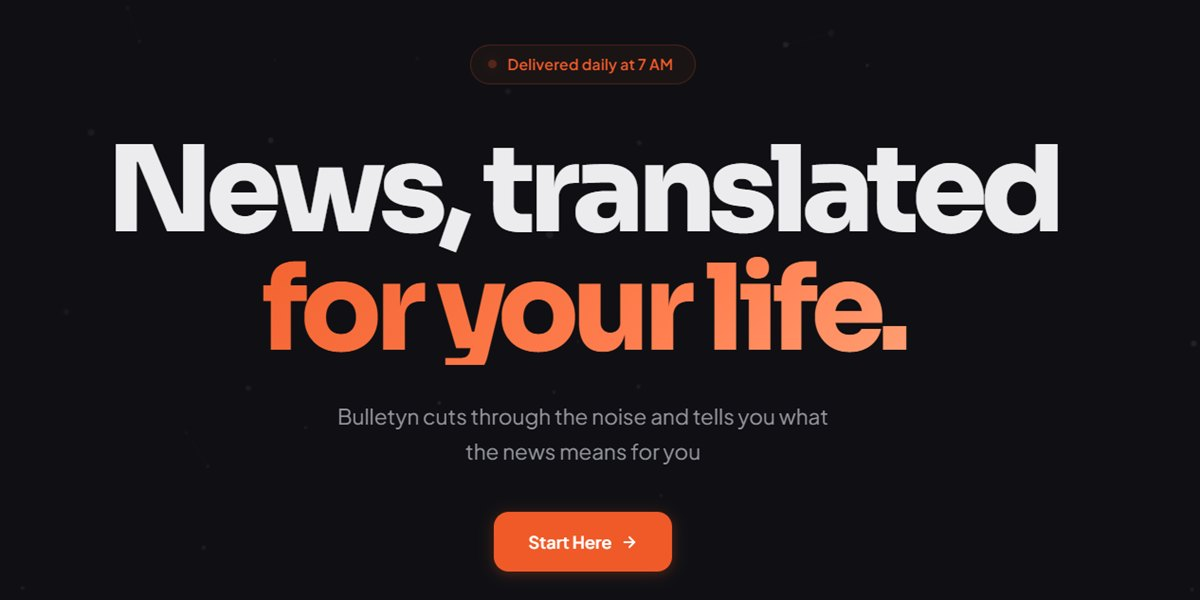
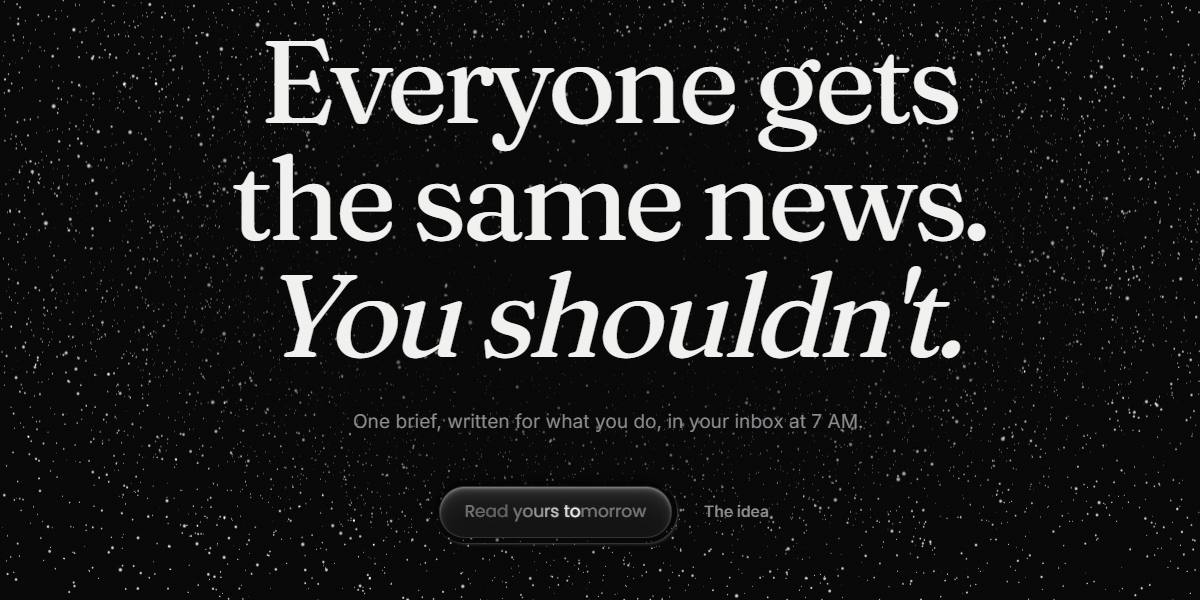
Update Bulletyn to the new brand: white mark and starfield screenshot
Derive the square card mark from the new wordmark logo so it stays crisp
at 48px, and recrop the landing page screenshot to the same 2:1 framing
as the sibling cards. Retires the old orange logo.

Changed region(s): [[0.0925, 0.06, 0.8942, 0.63], [0.3392, 0.81, 0.6475, 0.99], [0.2775, 0.66, 0.74, 0.78]]

diff --git a/index.html b/index.html
@@ -497,7 +497,7 @@ body {
              class="card-spotlight group md:p-12 hover:bg-white/[0.025] hover:z-10 transition-all duration-500 ease-[cubic-bezier(0.22,1,0.36,1)] flex flex-col overflow-hidden border border-transparent hover:border-white/[0.07] pt-8 pr-8 pb-8 pl-8 relative reveal">
             <div class="flex mb-6 items-start justify-between relative z-10">
               <div class="group-hover:border-white/25 group-hover:shadow-[0_0_16px_rgba(255,255,255,0.08)] transition-all duration-500 text-white bg-[#050505] border-white/10 border rounded-sm w-12 h-12 flex items-center justify-center overflow-hidden shrink-0">
-                <img src="assets/images/bulletyn-logo.png" alt="Bulletyn" class="w-full h-full object-contain opacity-90 group-hover:opacity-100 transition-opacity duration-300" loading="lazy">
+                <img src="assets/images/bulletyn-logo-white.png" alt="Bulletyn" class="w-full h-full object-contain opacity-90 group-hover:opacity-100 transition-opacity duration-300" loading="lazy">
               </div>
               <iconify-icon icon="solar:arrow-right-up-linear" width="18" class="text-zinc-700 group-hover:text-white group-hover:translate-x-0.5 group-hover:-translate-y-0.5 transition-all duration-500" stroke-width="1.5"></iconify-icon>
             </div>

diff --git a/bulletyn-work.html b/bulletyn-work.html
@@ -68,7 +68,7 @@ body { font-family: 'Inter', sans-serif; background-color: #000; background-imag
       <div class="max-w-4xl space-y-6">
         <h1 class="md:text-6xl lg:text-7xl leading-[0.95] text-5xl font-medium text-white tracking-tight reveal">
           <a href="https://readbulletyn.com/" target="_blank" class="inline-flex items-center gap-4 hover:opacity-80 transition-opacity">
-            <img src="assets/images/bulletyn-logo.png" alt="Bulletyn Logo" class="w-12 h-12 object-contain" />
+            <img src="assets/images/bulletyn-logo-white.png" alt="Bulletyn Logo" class="w-12 h-12 object-contain" />
             <span>Bulletyn</span>
           </a>
         </h1>
